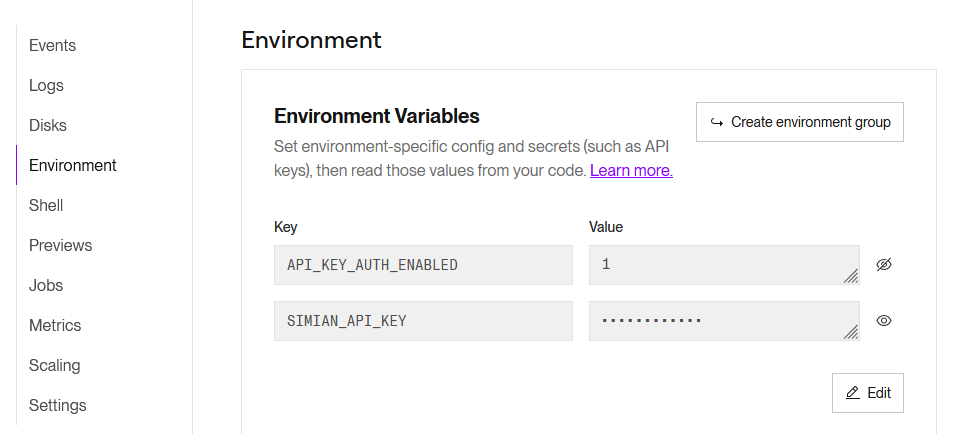
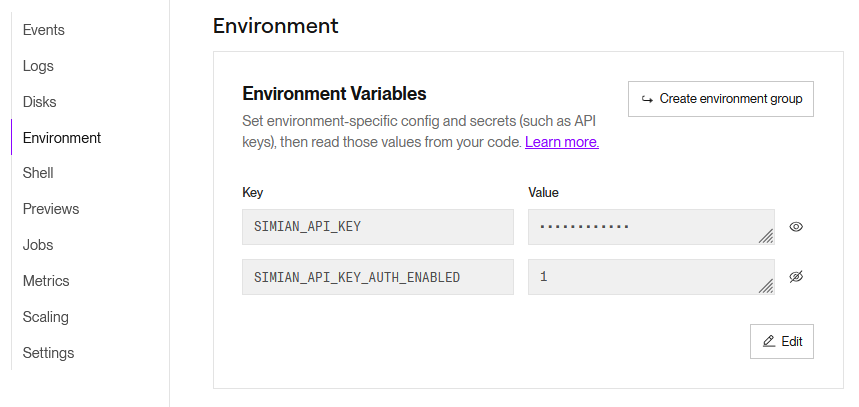
update README.md

diff --git a/README.md b/README.md
@@ -23,7 +23,7 @@ Deployment of a Simian Web App involves 4 main steps:
 A basic Simian Web App `hello-world.py` example is included in this repository in the `apps` directory.  
 The endpoint to this is example is `https://YOUR_SUBDOMAIN.onrender.com/hello-world`
 
-![alt text](readme-images/hello-world.png)
+![simian hello world app included](readme-images/hello-world.png)
 
 ## Add your own app(s)
 Additional Simian Web App(s) by adding your Simian Web App module to the `apps` directory.  
@@ -51,22 +51,22 @@ Alternatively, you can fork this project on GitHub and deploy to render from the
 - Sign in
 - Render will automatically pick up which repo to deploy
 - Enter a unique Blueprint Name and click "Deploy BluePrint" button.  
-  ![alt text](readme-images/render-deploy-blueprint.png)
+  ![render deploy blueprint](readme-images/render-deploy-blueprint.png)
 - Render will Sync with your GitHub repository and create the web service  
-  ![alt text](readme-images/render-deploy-working.png)
+  ![render deploy working](readme-images/render-deploy-working.png)
 - Your Render Dashboard now lists the new web service
-- Navigate to the web-service and take not eof your .onrender.com subdomain (highlighted below)  
-  ![alt text](readme-images/render-webservice-subdomain.png)
-
-
+- Navigate to the web-service and take note of your .onrender.com subdomain (highlighted below)  
+  ![render deploy subdomain](readme-images/render-webservice-subdomain.png)
+- During start-up of web-service the mapping from available modules/apps to the routes is shown in the log  
+  ![render log module to route mapping](readme-images/render-log-startup-module-to-route-mapping.png)
 
 ## Optional: API Key
 API key authentication (very basic, not for production usage) is configured by means of environment variables for the onrender.com web service:  
-- To enable set `API_KEY_AUTH_ENABLED` to `1`.  
+- To enable set `SIMIAN_API_KEY_AUTH_ENABLED` to `1`.  
   When this variable does not exist, or is set to `0` api key authentication is disabled.
 - If api key authentication is enabled, `SIMIAN_API_KEY` must be set to your API Key (lower case letters and numbers only).
   
-![alt text](readme-images/render-env-vars.png)
+![render api key environment vars](readme-images/render-env-vars.png)
 
 ## Render free plan & web service spin-down
 The free individual offering from render.com does spin down web services after some period of inactivity (15 minutes at the time of writing).
@@ -106,16 +106,20 @@ See https://render.com/docs/deploy-fastapi or follow the steps below:
 Publishing your Simian Web App:
 1. Sign up at [Simian Evaluation Portal](https://evaluate.simiansuite.com/).  
    (On the evaluation portal your app will only be accessible to you.)   
+   When signed in you will see the Publish app.  
+   ![simian publish your app](readme-images/simian-publish-your-app.png)  
 1. From your Render deployment, take note of:  
    The _subdomain_ of your backend deployment under _.onrender.com_  
    The _API Key_ (if enabled on the onrender.com web service)  
 1. In [Simian Evaluation Portal](https://evaluate.simiansuite.com/), configure and publish app [here](https://evaluate.simiansuite.com/configure_my_app/).  
+   ![simian publish your app](readme-images/simian-publish-your-app-configurator.png)  
    To configure the included `hello_world.py` app, set:
    - `Subdomain` to the subdomain of your `onrender.com web` service.  
      (Subdomain is `abc` if your webservice runs on `abc.onrender.com`.)
-   - `Route` to the route to the module under the `apps` directory that you want to deploy: `hello-world` for `hello_world.py`.
+   - `Route` to the route to the module under the `apps` directory that you want to deploy: `hello-world` for `hello_world.py`.  
      (Route to module is module file name without `.py`, and with `_` replaced by `-`.)
-   - Optionally, when API Key authentication is enabled on the onrender webservice, `API Key` to the same value configured in the `SIMIAN_API_KEY` environment varible on the onrender.com web service.
+   - Optionally, when API Key authentication is enabled on the onrender webservice, `API Key` to the same value configured in the `SIMIAN_API_KEY` environment varible on the onrender.com web service.  
+   Then set the title, description, and image to be displayed on the tile representing your app in the portal.
 
 > Simian Portal supports app sharing and access management. Access to your app on [Simian Evaluation Portal](https://evaluate.simiansuite.com/) is restricted to yourself only, and solely serves evaluation purposes.  
 > Contact [simiansuite.com](https://simiansuite.com/contact-us/) for Simian Portal cloud, and on-premises options.
